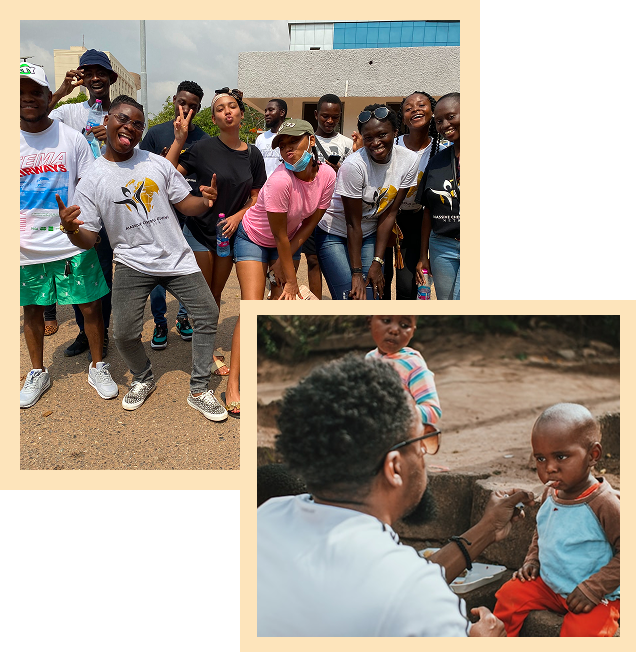
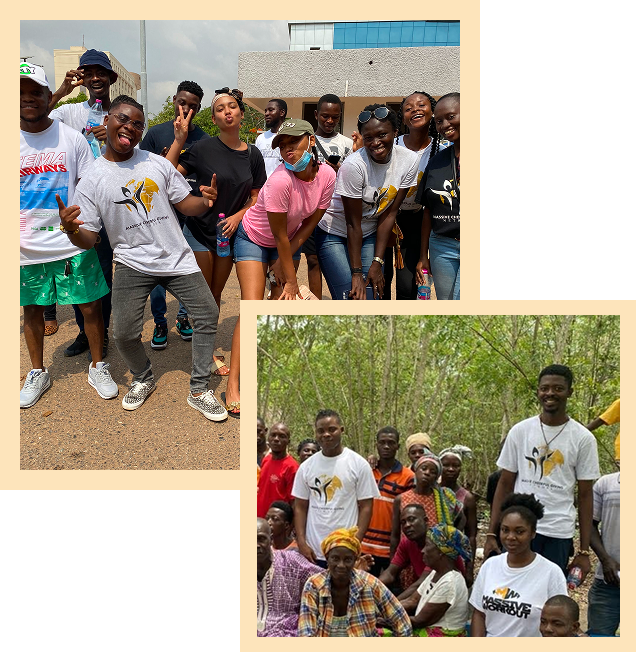
Refactor code structure for improved readability and maintainability

Changed region(s): [[0.3884, 0.4601, 0.9858, 0.9816]]

diff --git a/src/components/PartnerLogos.jsx b/src/components/PartnerLogos.jsx
@@ -1,17 +1,59 @@
-import Logo1 from '../assets/images/logo1.png';
-import Logo2 from '../assets/images/logo2.png';
-import Logo3 from '../assets/images/logo3.png';
-import Logo4 from '../assets/images/logo4.png';
+import "slick-carousel/slick/slick.css"; 
+import "slick-carousel/slick/slick-theme.css";
+import Slider from "react-slick";
+import tv3 from '../assets/images/tv3.png';
+import MassiveWorkout from '../assets/images/massive-workout.png';
+import Artfrica from '../assets/images/artfrica-studio.png';
+import Stanbic from '../assets/images/stanbic.png';
+import MassiveFarms from '../assets/images/farms.png';
+
+// export default function PartnerLogos() {
+//     return (
+//         <section className='lg:mx-30 md:mx-12 my-2  mb-12 border-1 border-red-600'>
+//             <div className="flex justify-between items-center gap-8 w-full flex-wrap md:flex-nowrap border-1 border-blue-600">
+//                 <img src={tv3} alt="TV3" className="h-16 md:h-16 lg:h-18 xl:h-24 object-contain" />
+//                 <img src={MassiveWorkout} alt="Massive Workout" className="h-16 md:h-16 lg:h-18 xl:h-24 object-contain" />
+//                 <img src={Artfrica} alt="Artfrica Studio" className="h-16 md:h-16 lg:h-18 xl:h-24 object-contain" />
+//                 <img src={Stanbic} alt="Stanbic Bank" className="h-16 md:h-16 lg:h-18 xl:h-24 object-contain" />
+//                 <img src={MassiveFarms} alt="Partner Logo 4" className="h-16 md:h-16 lg:h-18 xl:h-24 object-contain" />
+//             </div>
+//         </section>
+//     )
+// }
 
 export default function PartnerLogos() {
-    return (
-        <section className='lg:mx-30 md:mx-12 my-2'>
-            <div className="flex justify-between items-center gap-8 w-full flex-wrap md:flex-nowrap">
-                <img src={Logo1} alt="Partner Logo 1" className="h-16 md:h-16 lg:h-18 xl:h-24 object-contain" />
-                <img src={Logo2} alt="Partner Logo 2" className="h-16 md:h-16 lg:h-18 xl:h-24 object-contain" />
-                <img src={Logo3} alt="Partner Logo 3" className="h-16 md:h-16 lg:h-18 xl:h-24 object-contain" />
-                <img src={Logo4} alt="Partner Logo 4" className="h-16 md:h-16 lg:h-18 xl:h-24 object-contain" />
-            </div>
-        </section>
-    )
+  const logos = [tv3, MassiveWorkout, Artfrica, Stanbic, MassiveFarms];
+
+  const settings = {
+    dots: false,
+    infinite: true,
+    speed: 1000,
+    slidesToShow: 4,
+    slidesToScroll: 1,
+    autoplay: true,
+    autoplaySpeed: 0, // makes it continuously slide
+    cssEase: "linear",
+    pauseOnHover: true,
+    responsive: [
+      { breakpoint: 1024, settings: { slidesToShow: 3 } },
+      { breakpoint: 768, settings: { slidesToShow: 2 } },
+      { breakpoint: 480, settings: { slidesToShow: 1 } },
+    ],
+  };
+
+  return (
+    <section className="lg:mx-30 md:mx-12 my-2 mb-12">
+      <Slider {...settings}>
+        {logos.map((logo, index) => (
+          <div key={index} className="flex justify-center items-center px-4">
+            <img 
+              src={logo} 
+              alt={`Logo ${index}`} 
+              className="h-16 md:h-16 lg:h-18 xl:h-24 object-contain"
+            />
+          </div>
+        ))}
+      </Slider>
+    </section>
+  );
 }

diff --git a/src/components/Footer.jsx b/src/components/Footer.jsx
@@ -26,16 +26,16 @@ export default function Footer() {
                 <h4 className="font-semibold text-[18px] capitalize">Quick Links</h4>
                 <ul className="gap-2 flex flex-col text-[#AFAFAF]">
                 <li className="font-montserrat font-normal text-[16px] hover:text-white">
-                    <a href="">Home</a>
+                    <a href="/">Home</a>
                 </li>
                 <li className="font-montserrat font-normal text-[16px] hover:text-white">
-                    <a href="">About Us</a>
+                    <a href="/about">About Us</a>
                 </li>
                 <li className="font-montserrat font-normal text-[16px] hover:text-white">
-                    <a href="">Projects</a>
+                    <a href="/get-involved">Get Involved</a>
                 </li>
                 <li className="font-montserrat font-normal text-[16px] hover:text-white">
-                    <a href="">News & Media</a>
+                    <a href="/gallery">Gallery</a>
                 </li>
                 </ul>
             </div>
@@ -45,10 +45,10 @@ export default function Footer() {
                 <h4 className="font-semibold text-[18px] capitalize">Get in Touch</h4>
                 <ul className="gap-2 flex flex-col text-[#AFAFAF]">
                 <li className="font-montserrat font-normal text-[16px] hover:text-white">
-                    <a href="">Contact us</a>
+                    <a href="/contact-us">Contact us</a>
                 </li>
                 <li className="font-montserrat font-normal text-[16px] hover:text-white">
-                    <a href="">Get Involved</a>
+                    <a href="/get-involved">Get Involved</a>
                 </li>
                 </ul>
             </div>

diff --git a/src/components/OurTeam.jsx b/src/components/OurTeam.jsx
@@ -1,6 +1,10 @@
 import TeamCard from "./Cards/TeamCard";
 import FrankImg from "../assets/team/frank.jpg";
 import Blaise from "../assets/team/blaise.jpg";
+import Jennifer from "../assets/team/jennifer.jpg";
+import Jennifer1 from "../assets/team/jennifer-1.jpg";
+import Emmanuella from "../assets/team/emmanuella.jpg";
+import Ann from "../assets/team/ann.jpg";
 
 export default function OurTeam() {
     return (
@@ -37,15 +41,24 @@ export default function OurTeam() {
                     }}
                 />
                 <TeamCard 
-                    TeamImage={Blaise}
-                    Name="Blaise S. Mennia"
-                    Position="Co-Founder"
-                    socialLinks={{
-                        facebook: "https://facebook.com/frank",
-                        instagram: "https://instagram.com/frank",
-                        twitter: "https://instagram.com/frank",
-                        linkedin: "https://linkedin.com/in/frank",
-                    }}
+                    TeamImage={Jennifer}
+                    Name="Jennifer Delalorm Governor"
+                    Position="Secretary"
+                />
+                <TeamCard 
+                    TeamImage={Jennifer1}
+                    Name="Jennifer Atsrim"
+                    // Position="Secretary"
+                />
+                <TeamCard 
+                    TeamImage={Emmanuella}
+                    Name="Emmanuella Owusu"
+                    // Position="Secretary"
+                    />
+                <TeamCard 
+                    TeamImage={Ann}
+                    Name="Ann Marie"
+                    // Position="Secretary"
                 />
             </div>
         </section>

diff --git a/src/components/aboutpage/OurStory.jsx b/src/components/aboutpage/OurStory.jsx
@@ -8,7 +8,7 @@ export default function OurStory() {
             className='relative top-0 left-0 pointer-events-none select-none h-[800px] w-auto'
             />
             <section className='flex flex-col lg:flex-row mx-4 lg:mx-46 lg:px-0 my-20 md:px-0 gap-10 relative z-100 mt-[-560px] justify-center items-center'>
-                <div className='lg:w-1/2 md:w-full md:px-10'>
+                <div className='lg:w-1/2 md:w-full md:px-2'>
                     <img src={OurStoryImage} alt="Our Story Image of the group" 
                     className='lg:h-[36rem] w-fit object-cover' />
                 </div>
